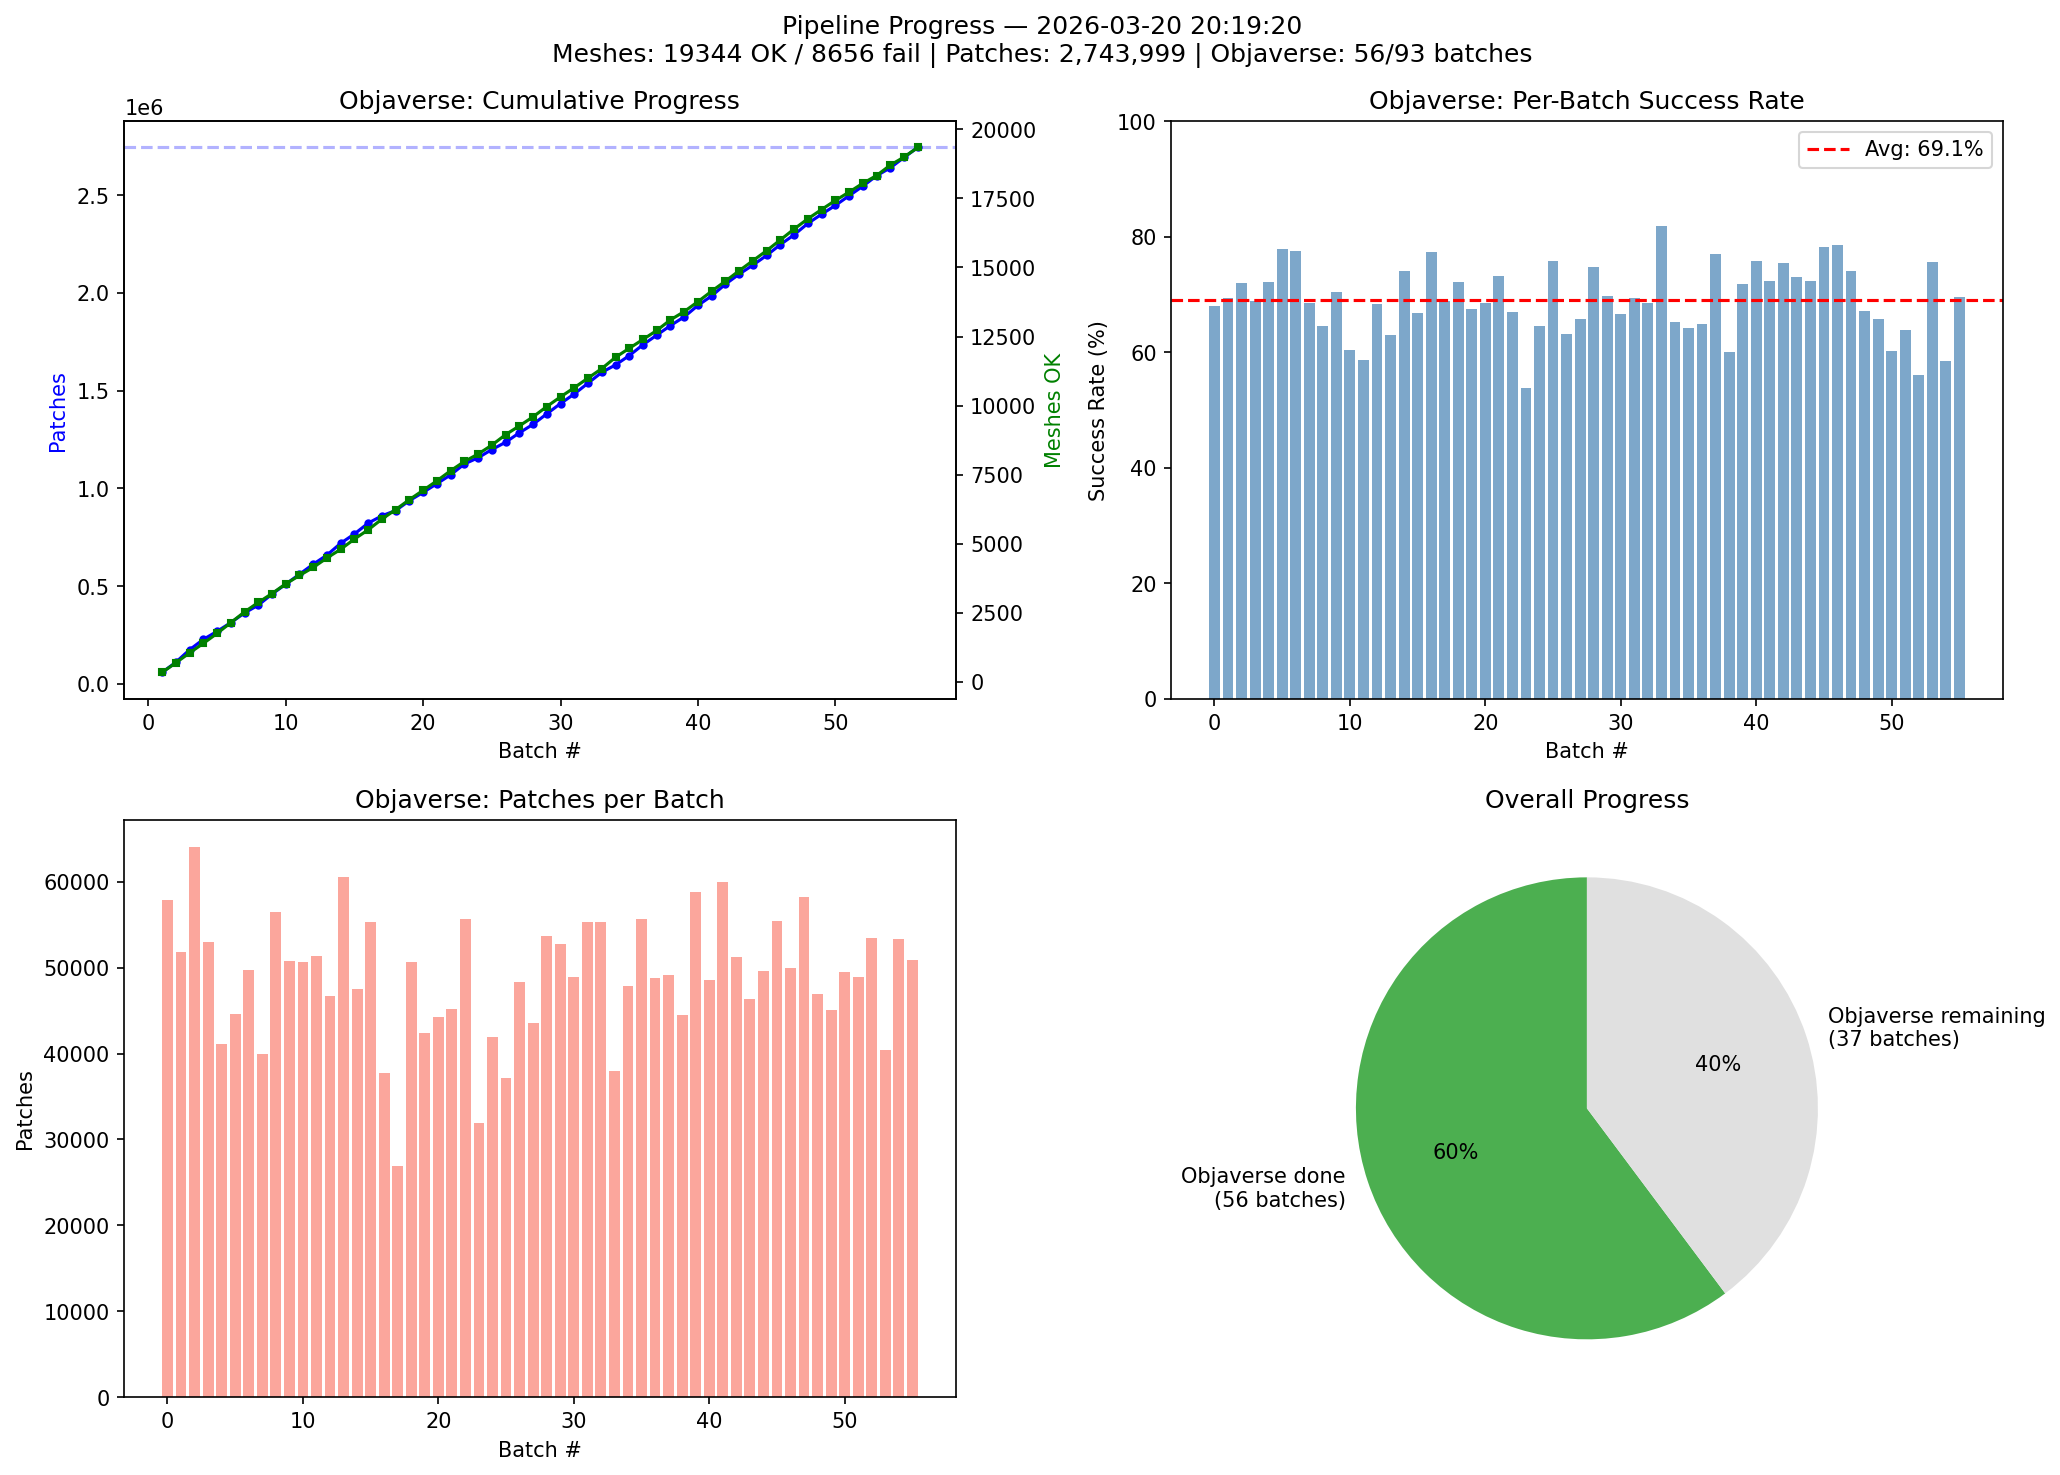
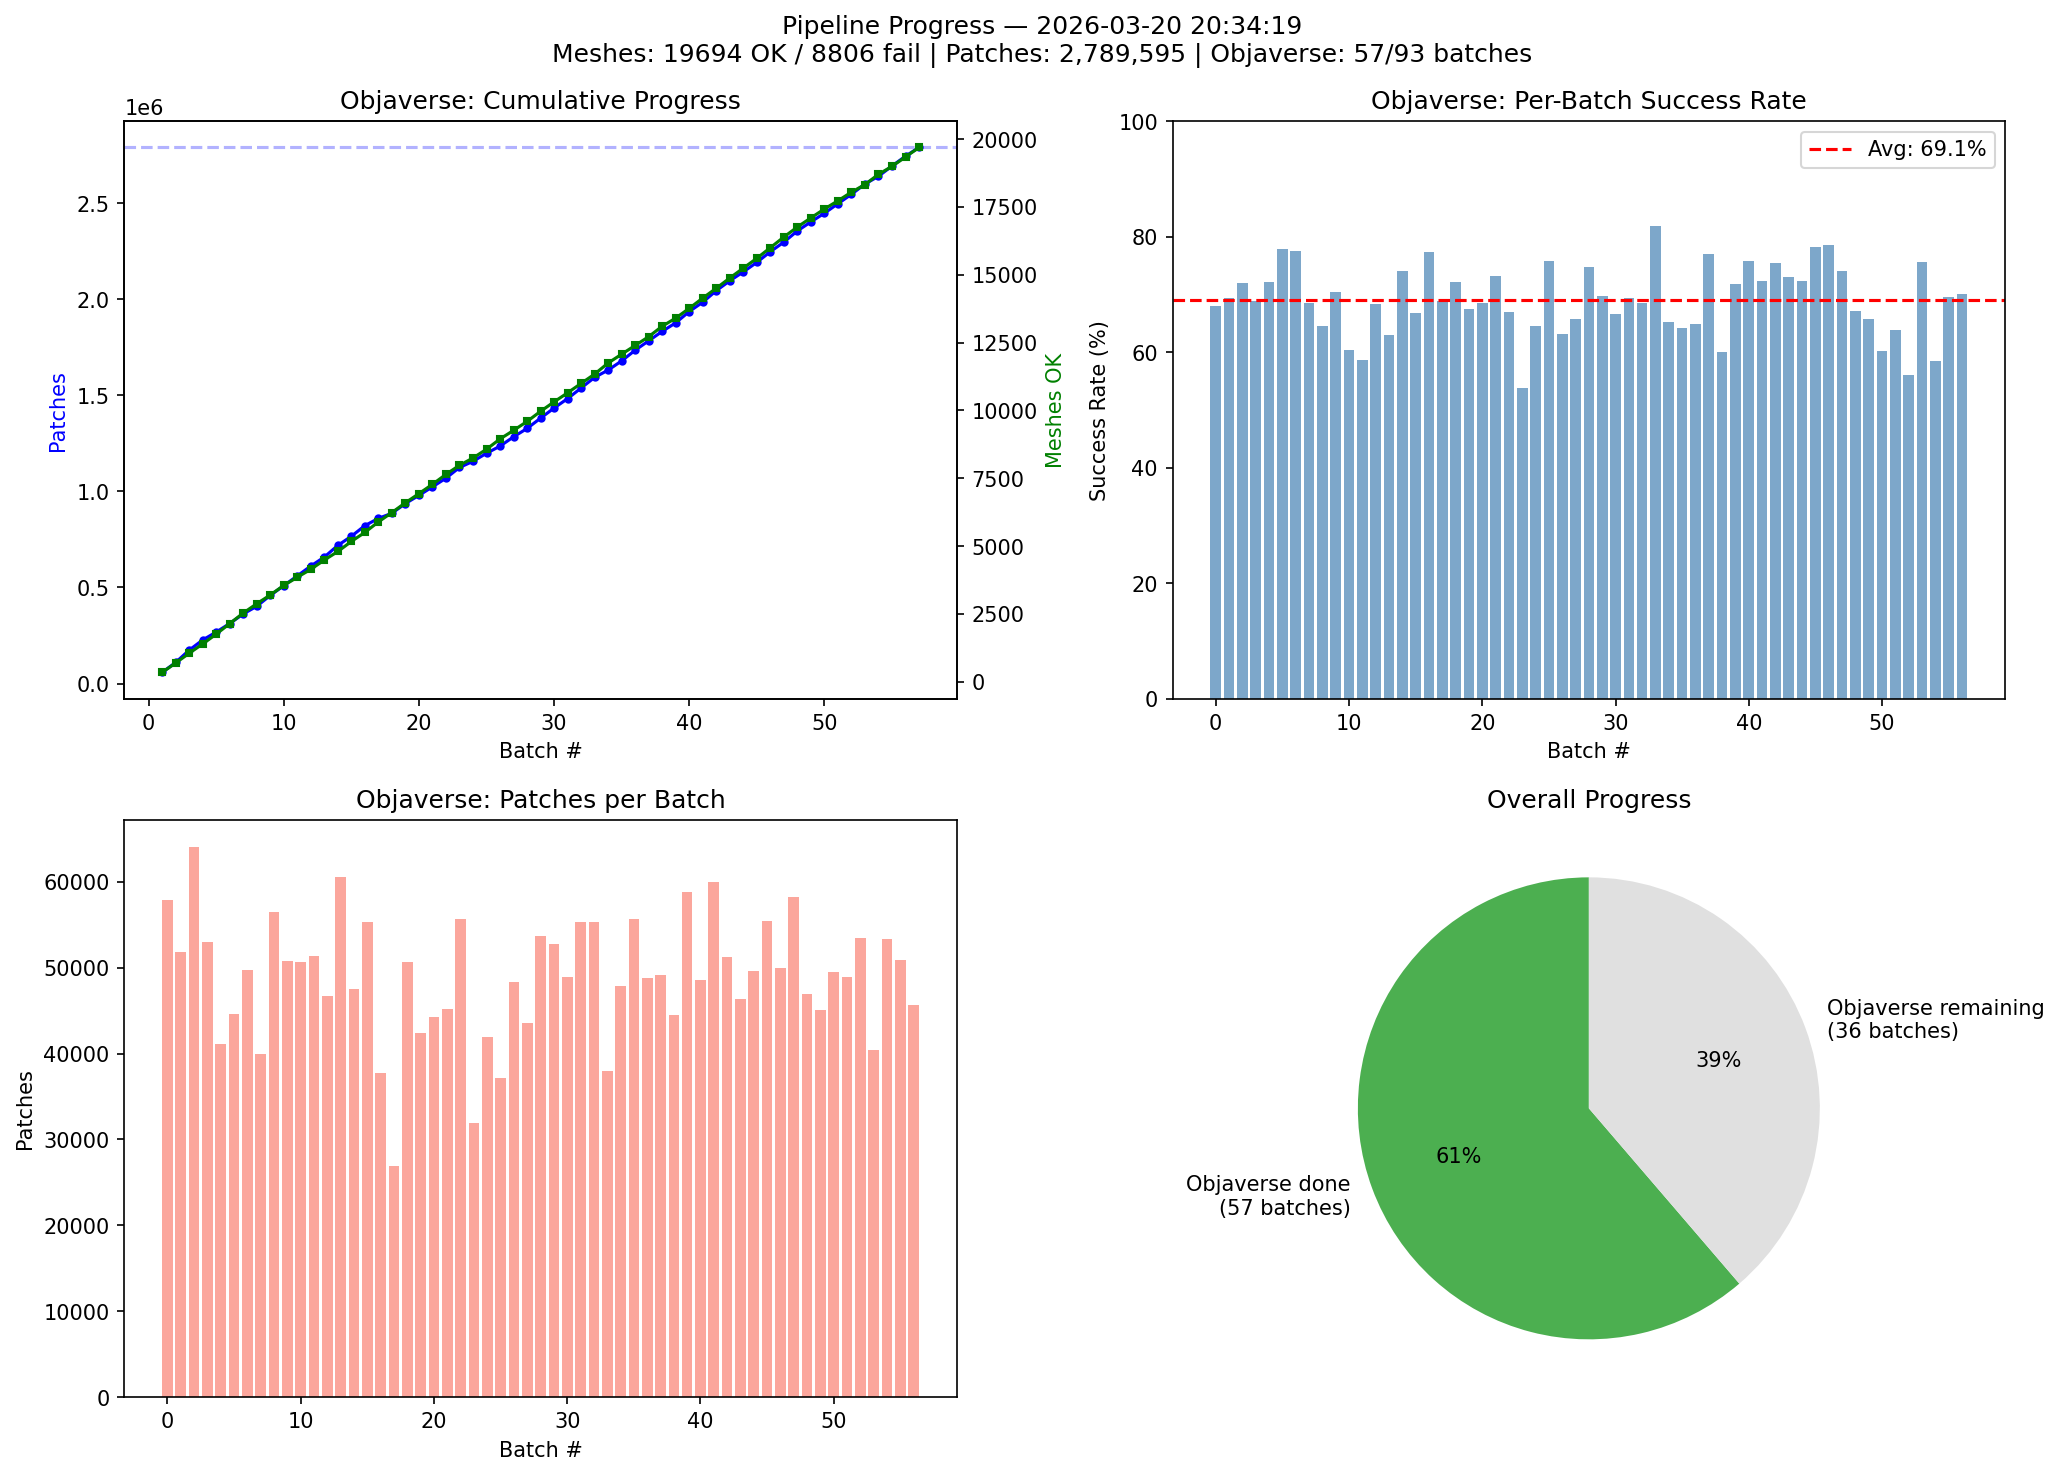
chore: update pipeline monitoring (batch_057 completed)
- Objaverse: 57/93 batches, 19694 OK / 8806 fail
- Patches: 2,789,595

diff --git a/results/dataset-pipeline/REPORT.md b/results/dataset-pipeline/REPORT.md
@@ -1,17 +1,17 @@
 # Dataset Pipeline Progress Report
 
-**Generated:** 2026-03-20 20:19:20
+**Generated:** 2026-03-20 20:34:19
 
 ## Overall
-- Total meshes processed: 19344 OK / 8656 fail
-- Total patches: 2,743,999
+- Total meshes processed: 19694 OK / 8806 fail
+- Total patches: 2,789,595
 
 ## Objaverse-LVIS (Phase 1)
-- Batches: 56 / 93 completed
-- Meshes: 19344 OK / 8656 fail
+- Batches: 57 / 93 completed
+- Meshes: 19694 OK / 8806 fail
 - Success rate: 69.1%
-- Patches: 2,743,999
-- Avg patches/mesh: 141.9
+- Patches: 2,789,595
+- Avg patches/mesh: 141.6
 
 ## ShapeNet (Phase 2)
 - Batches: 0 completed
@@ -21,5 +21,5 @@
 
 ## Disk Usage
 - Total: 80GB
-- Used: 18GB
-- Free: 61GB
+- Used: 16GB
+- Free: 63GB
